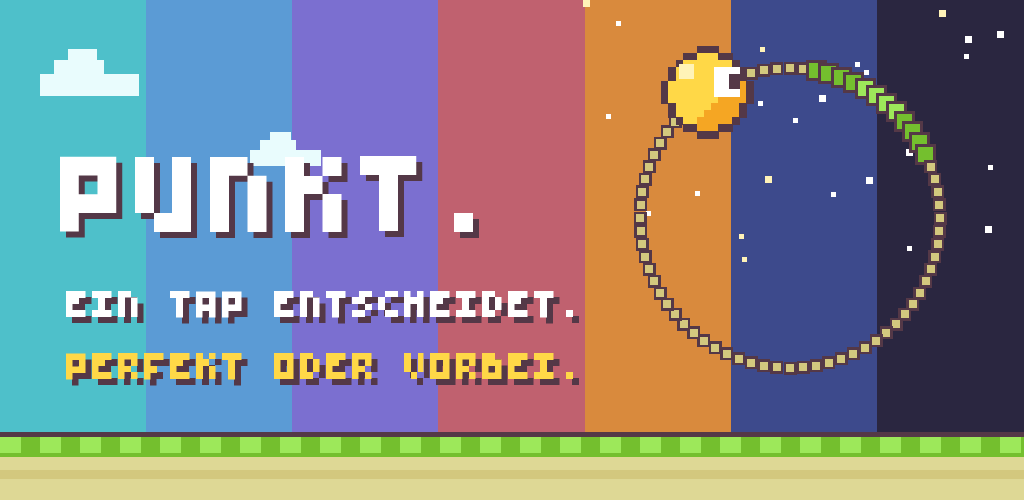
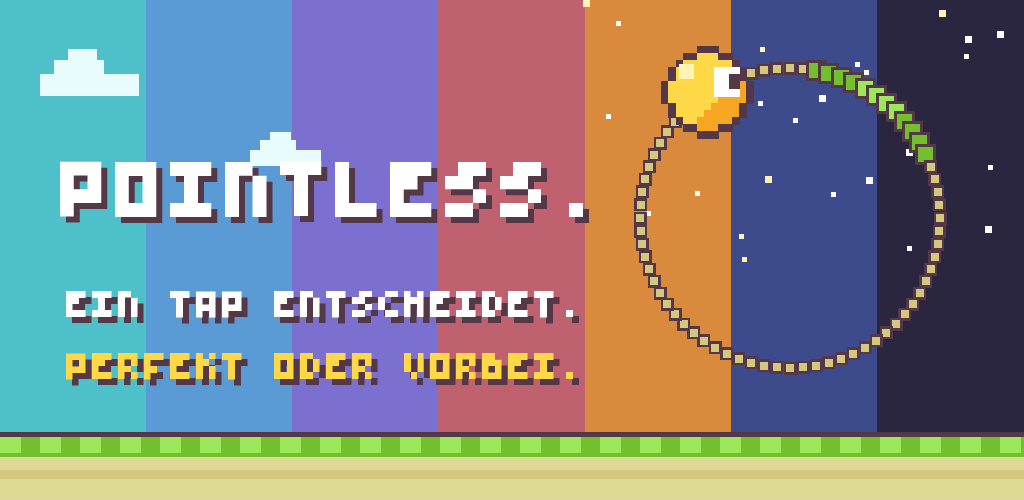
App zu POINTLESS. umbenannt (neue Paket-ID de.robinrehbein.pointless)
Der Name PUNKT. ist im Play Store bereits vergeben und der zugehoerige
Signing-Key nicht mehr vorhanden — eine Play-Paket-ID ist ohne den
Original-Key dauerhaft blockiert, daher Neustart unter neuem Namen:

- applicationId in :app und :wear -> de.robinrehbein.pointless
  (namespace/Kotlin-Pakete bleiben unveraendert, rein interner Name)
- app_name, Share-Texte, Titelscreen (56sp wegen 10 Zeichen Breite),
  Score-Card und Wear-Label auf POINTLESS. umgestellt
- Feature-Grafik neu generiert (Titel 110px, endet vor der Kreisbahn)
- Datenschutzerklaerung, README, PUBLISHING.md und CI-packageName
  aktualisiert; deutsche Gameplay-Texte (DER PUNKT KREIST...) bleiben
- versionCode 25 / versionName 2.14

Claude-Session: https://claude.ai/code/session_01Ddo6vyFWhSqGUUuYmdM4Mj

Changed region(s): [[0.0625, 0.3, 0.5938, 0.48]]

diff --git a/docs/index.html b/docs/index.html
@@ -3,7 +3,7 @@
 <head>
   <meta charset="UTF-8">
   <meta name="viewport" content="width=device-width, initial-scale=1.0">
-  <title>PUNKT. — Datenschutzerklärung</title>
+  <title>POINTLESS. — Datenschutzerklärung</title>
   <style>
     :root {
       color-scheme: light dark;
@@ -31,11 +31,11 @@
   </style>
 </head>
 <body>
-  <h1>PUNKT. — Datenschutzerklärung</h1>
-  <p class="meta">Gilt für die Android-App „Punkt." (de.robinrehbein.punkt) · Stand: August 2026</p>
+  <h1>POINTLESS. — Datenschutzerklärung</h1>
+  <p class="meta">Gilt für die Android-App „Pointless." (de.robinrehbein.pointless) · Stand: August 2026</p>
 
   <h2>Kurz gesagt</h2>
-  <p><strong>PUNKT. erhebt, speichert und teilt keinerlei personenbezogene
+  <p><strong>POINTLESS. erhebt, speichert und teilt keinerlei personenbezogene
   Daten.</strong> Die App funktioniert vollständig offline, enthält keine
   Werbung, keine Analyse-Dienste und keine Dienste von Drittanbietern.</p>
 
@@ -78,7 +78,7 @@
   E-Mail: <a href="mailto:robin@join-noah.de">robin@join-noah.de</a></p>
 
   <footer>
-    <p><em>English summary:</em> PUNKT. does not collect, store, or share
+    <p><em>English summary:</em> POINTLESS. does not collect, store, or share
     any personal data. The app works fully offline; high scores, daily
     challenge progress, unlocked skins, and settings are stored only on
     your device and deleted when you uninstall the app. The optional

diff --git a/app/src/main/java/de/robinrehbein/punkt/ui/screens/GameOverlays.kt b/app/src/main/java/de/robinrehbein/punkt/ui/screens/GameOverlays.kt
@@ -233,9 +233,11 @@ internal fun ReadyOverlay(
                 .padding(top = 80.dp)
         ) {
             Text(
-                text = "PUNKT.",
+                // 56.sp statt 64.sp: "POINTLESS." ist 10 Zeichen breit und
+                // muss auch auf 360-dp-Displays ohne Umbruch passen.
+                text = "POINTLESS.",
                 style = ScoreShadowStyle,
-                fontSize = 64.sp,
+                fontSize = 56.sp,
                 color = Color.White
             )
             if (bestScore > 0) {

diff --git a/app/src/main/java/de/robinrehbein/punkt/share/ScoreCard.kt b/app/src/main/java/de/robinrehbein/punkt/share/ScoreCard.kt
@@ -120,7 +120,7 @@ object ScoreCard {
         canvas.drawRect(0f, groundTop - CELL, W.toFloat(), groundTop, paint)
 
         val cx = W / 2f
-        drawShadowed("PUNKT.", cx, H * 0.14f, 130f, Color.WHITE)
+        drawShadowed("POINTLESS.", cx, H * 0.14f, 130f, Color.WHITE)
         if (daily) {
             drawShadowed(context.getString(R.string.card_daily), cx, H * 0.20f, 56f, RECORD_YELLOW)
         }

diff --git a/store/generate_feature_graphic.py b/store/generate_feature_graphic.py
@@ -147,7 +147,9 @@ pixel_circle(
 )
 
 # ===== Titel und Tagline (linke Haelfte) =====
-font_big = ImageFont.truetype("app/src/main/res/font/bytesized_regular.ttf", 150)
+# 110 statt 150: "POINTLESS." ist 10 Zeichen breit und muss links von der
+# Kreisbahn (linker Rand bei x ~ 620) enden, statt in sie hineinzulaufen.
+font_big = ImageFont.truetype("app/src/main/res/font/bytesized_regular.ttf", 110)
 font_small = ImageFont.truetype("app/src/main/res/font/bytesized_regular.ttf", 52)
 
 
@@ -158,7 +160,7 @@ def shadowed(pos, text, font, color, shadow=6):
 
 # Tagline bewusst ohne "M": Der Bytesized-Font rendert das M so
 # eigenwillig, dass es auf einem Store-Asset unleserlich wird.
-shadowed((60, 100), "PUNKT.", font_big, WHITE)
+shadowed((60, 120), "POINTLESS.", font_big, WHITE)
 shadowed((66, 272), "EIN TAP ENTSCHEIDET.", font_small, WHITE)
 shadowed((66, 334), "PERFEKT ODER VORBEI.", font_small, DOT_BODY)
 

diff --git a/PUBLISHING.md b/PUBLISHING.md
@@ -1,4 +1,4 @@
-# PUNKT. — Weg in den Play Store
+# POINTLESS. — Weg in den Play Store
 
 Fahrplan und Anleitungen für die Veröffentlichung. Stand: v2.11.
 
@@ -85,7 +85,7 @@ wird öffentlich sichtbar.
 
 **App-Name** (max. 30 Zeichen):
 
-> PUNKT. — Timing-Arcade
+> POINTLESS. — Timing-Arcade
 
 **Kurzbeschreibung** (max. 80 Zeichen):
 
@@ -95,7 +95,7 @@ wird öffentlich sichtbar.
 
 > **Ein Punkt. Ein Daumen. Kein Erbarmen.**
 >
-> PUNKT. ist pures Timing: Ein Punkt kreist auf seiner Bahn — tippe
+> POINTLESS. ist pures Timing: Ein Punkt kreist auf seiner Bahn — tippe
 > genau dann, wenn er die grüne Zone durchquert. Triffst du, geht es
 > weiter. Verpasst du, ist der Run sofort vorbei. Kein Tutorial-Kram,
 > keine Wartezeiten: Der nächste Versuch ist einen Tap entfernt.
@@ -130,7 +130,7 @@ wird öffentlich sichtbar.
 
 **App name** (max. 30 Zeichen):
 
-> PUNKT. — Timing Arcade
+> POINTLESS. — Timing Arcade
 
 **Short description** (max. 80 Zeichen):
 
@@ -140,7 +140,7 @@ wird öffentlich sichtbar.
 
 > **One dot. One thumb. No mercy.**
 >
-> PUNKT. is pure timing: a dot circles its track — tap exactly when it
+> POINTLESS. is pure timing: a dot circles its track — tap exactly when it
 > crosses the green zone. Hit it and you keep going. Miss it and the run
 > is over on the spot. No tutorials, no waiting: the next attempt is one
 > tap away.
@@ -189,7 +189,7 @@ workflow** (auf `main`). Einmalige Einrichtung:
    verlinkt direkt in die Cloud Console).
 2. In der Cloud Console für das Service-Konto einen **JSON-Key**
    erzeugen und herunterladen.
-3. Zurück in der Play Console dem Service-Konto Zugriff auf PUNKT.
+3. Zurück in der Play Console dem Service-Konto Zugriff auf POINTLESS.
    geben — die Berechtigung „Releases in Tests verwalten" reicht.
 4. Den **kompletten JSON-Inhalt** als GitHub-Secret
    `PLAY_SERVICE_ACCOUNT_JSON` anlegen (Settings → Secrets and
@@ -197,7 +197,7 @@ workflow** (auf `main`). Einmalige Einrichtung:
    committen, nie in Chats einfügen.
 
 Zwei Dinge kann die API nicht, die bleiben Handarbeit in der Console:
-die App selbst anlegen (Name „PUNKT.", Paket `de.robinrehbein.punkt`)
+die App selbst anlegen (Name „Pointless.", Paket `de.robinrehbein.pointless`)
 und den allerersten Upload prüfen/freigeben. Außerdem gilt: Der Job
 verweigert den Start, solange der Keystore nicht rotiert ist
 (`PUNKT_KEYSTORE_BASE64` fehlt), und jeder Upload braucht einen noch
@@ -228,5 +228,5 @@ und die App bleibt komplett offline. So wird es scharf geschaltet:
 ## Versionierung für Store-Uploads
 
 Jeder Play-Upload braucht einen höheren `versionCode`
-(`app/build.gradle.kts`). Aktuell: `versionCode 24` / `versionName
-"2.13.2"`. Vor jedem Store-Upload beides anheben und committen.
+(`app/build.gradle.kts`). Aktuell: `versionCode 25` / `versionName
+"2.14"`. Vor jedem Store-Upload beides anheben und committen.

diff --git a/README.md b/README.md
@@ -1,4 +1,8 @@
-# PUNKT.
+# POINTLESS.
+
+Bis v2.13 hieß das Spiel „PUNKT." — umbenannt, weil der Name im Play
+Store bereits vergeben war; mit der Umbenennung wechselte auch die
+Paket-ID auf `de.robinrehbein.pointless`.
 
 Ein Hyper-Casual-Android-Spiel im Retro-Pixel-Look (Jetpack Compose,
 alles im Code gezeichnet — keine Assets). Ein Punkt, ein Daumen, sofort
